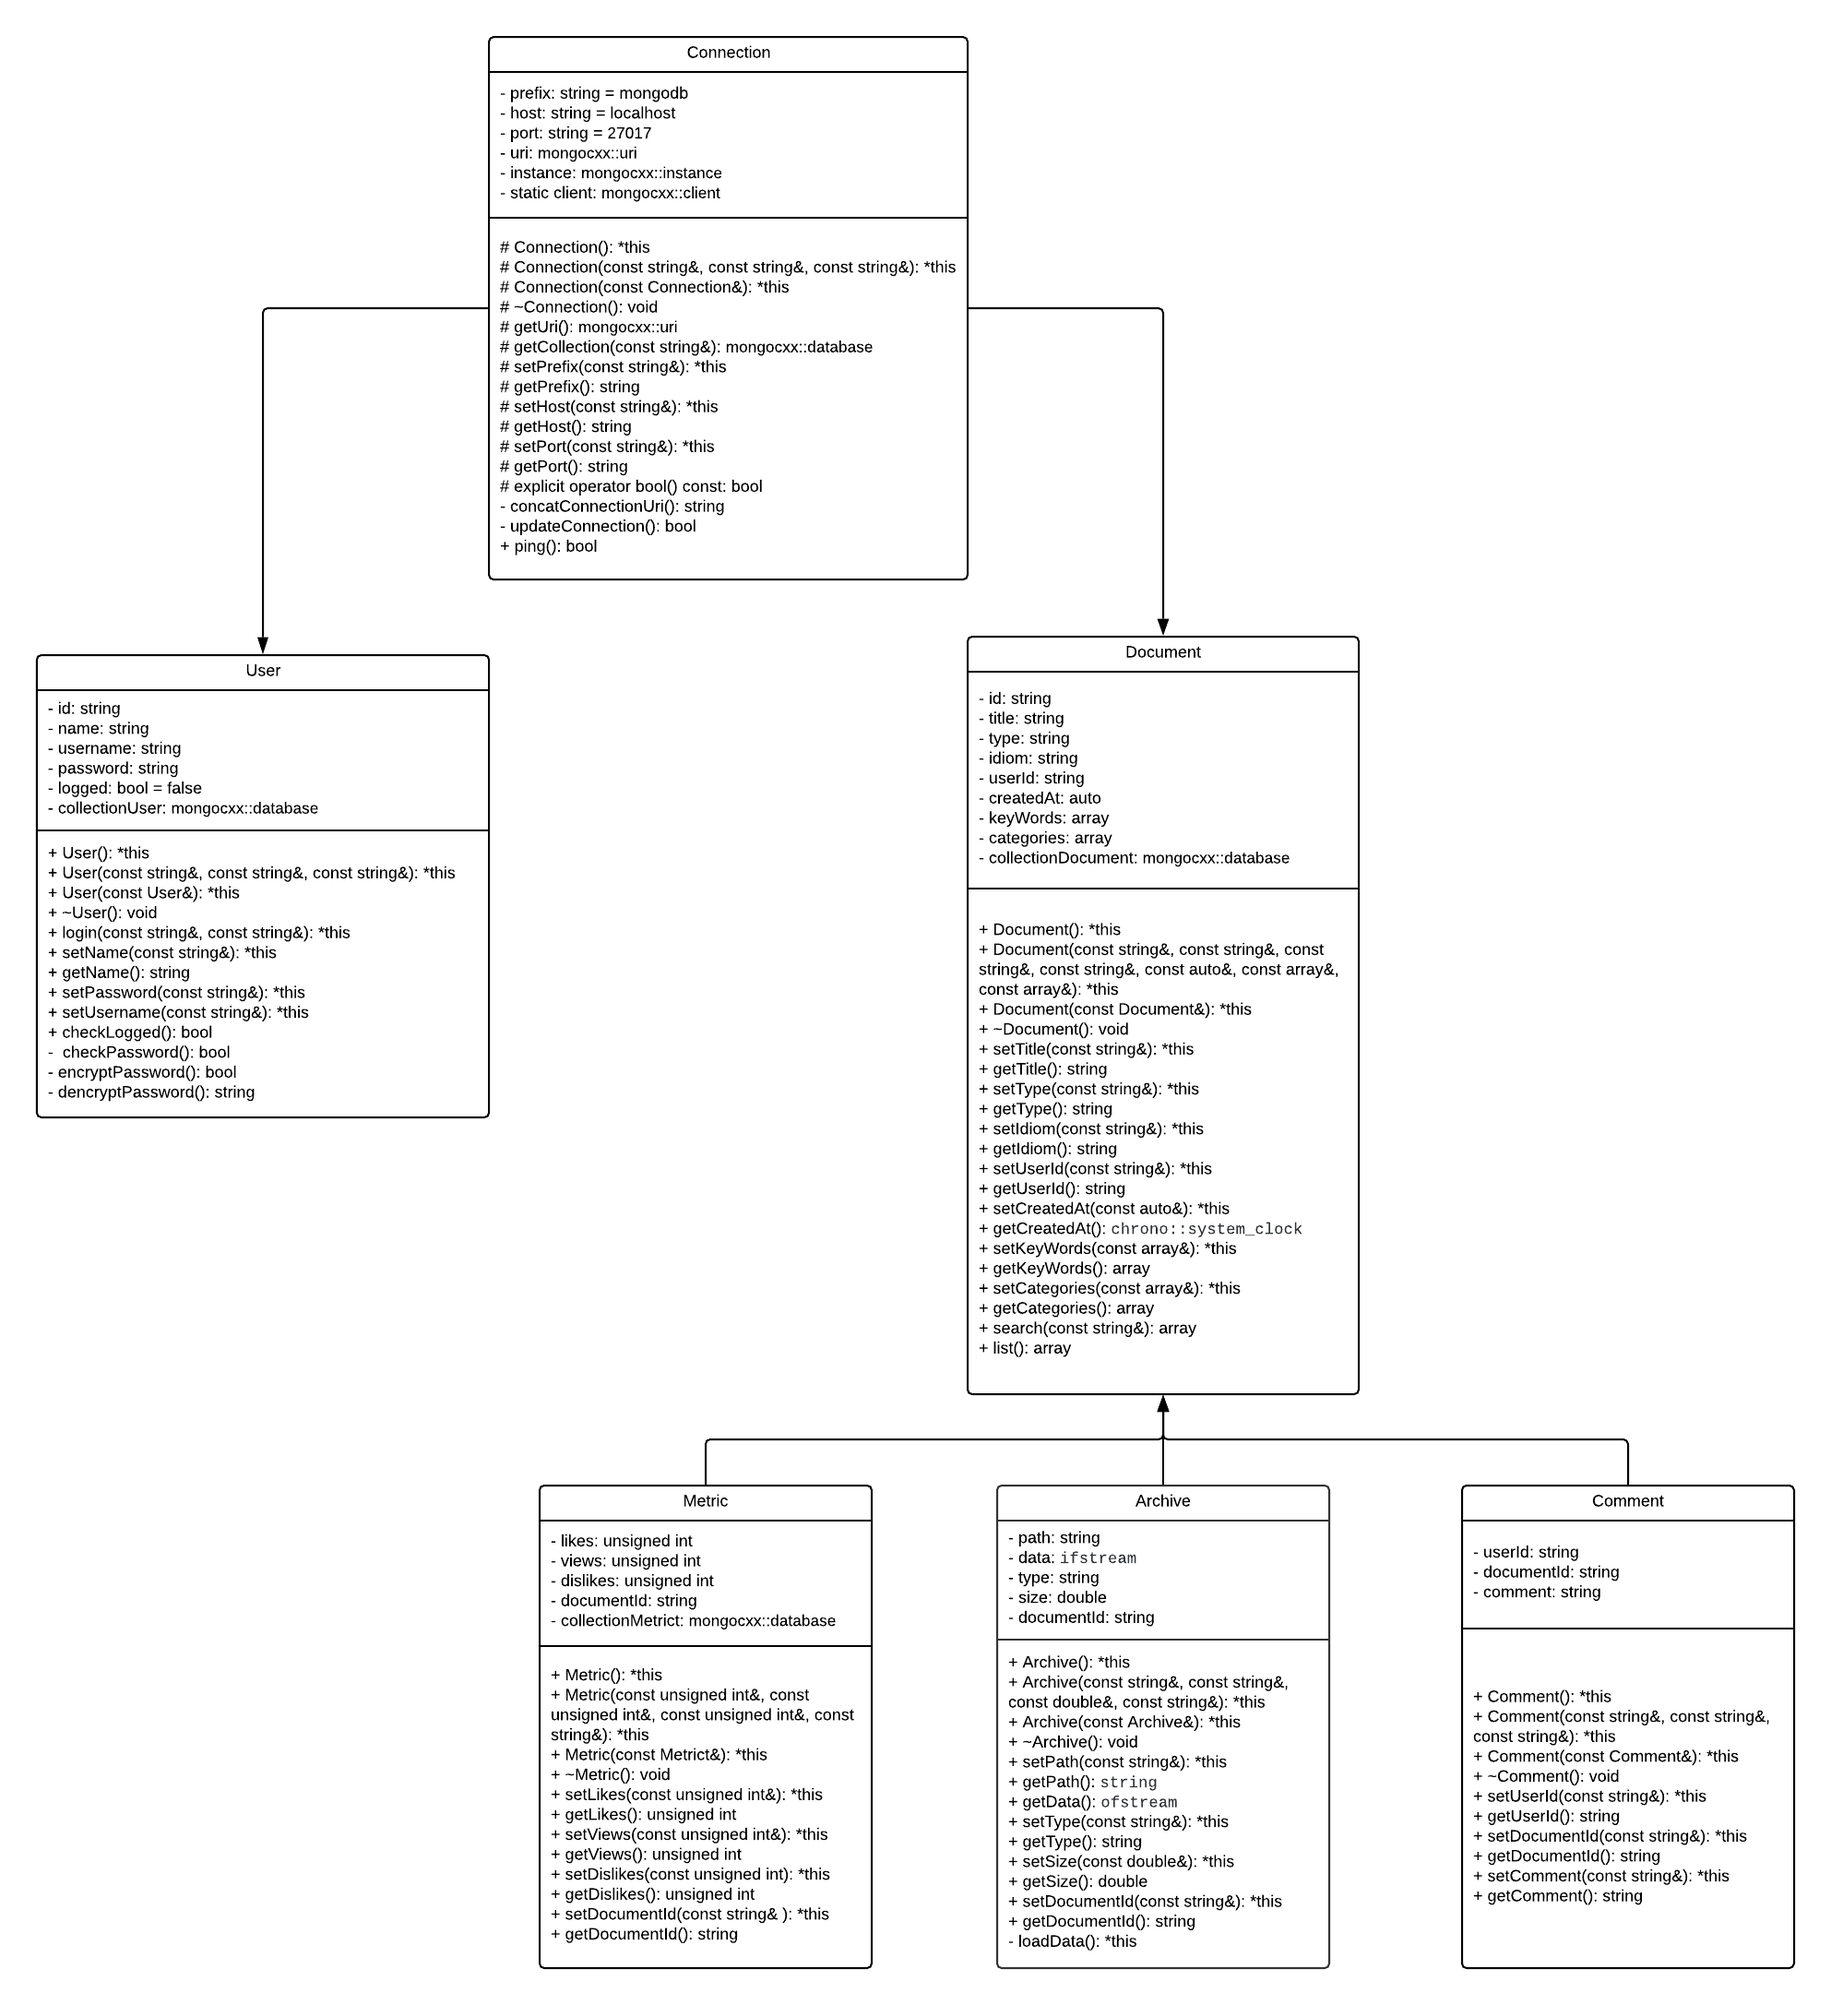
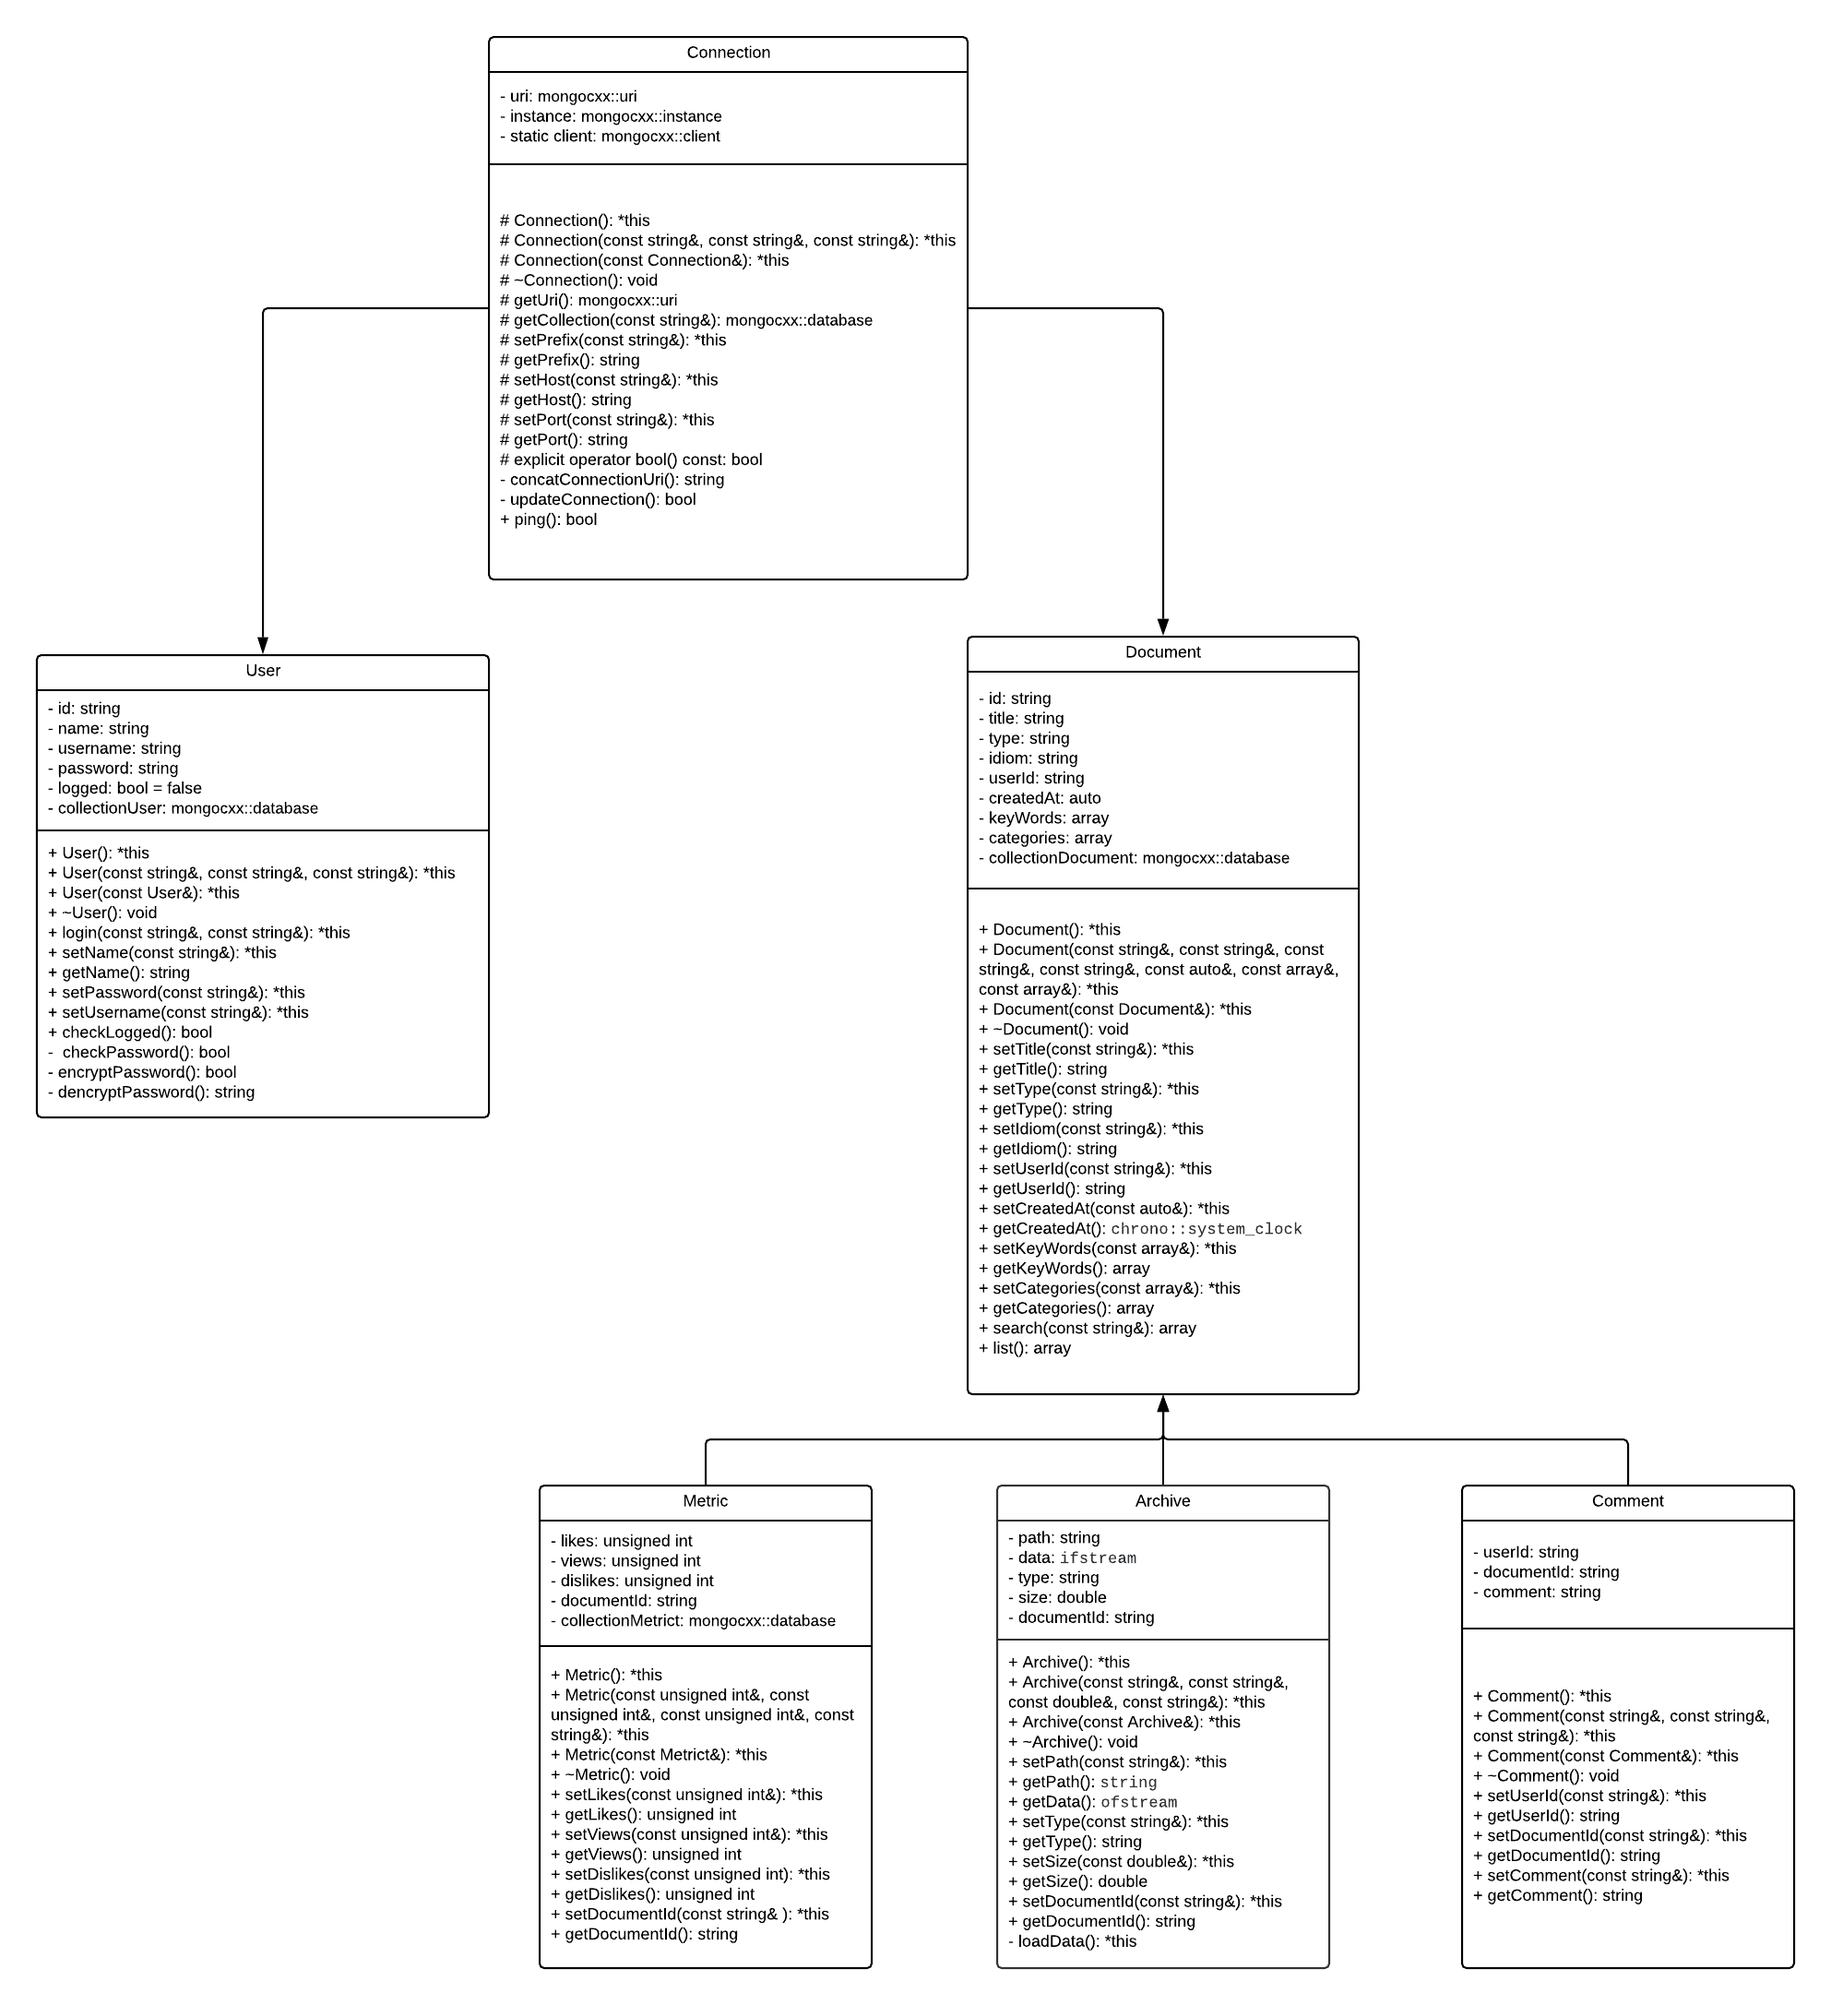
Connection to Mongo created

Changed region(s): [[0.2811, 0.0308, 0.4685, 0.2775], [0.8121, 0.8325, 0.9058, 0.9558], [0.4685, 0.0925, 0.4997, 0.1542]]

diff --git a/source/classes/connection/connection.cpp b/source/classes/connection/connection.cpp
@@ -1,30 +1,116 @@
-#include <cstdint>
-
 #include <iostream>
-
-#include <vector>
 
 #include <bsoncxx/json.hpp>
 
-#include <mongocxx/client.hpp>
-
 #include <mongocxx/stdx.hpp>
+
+#include <mongocxx/client.hpp>
 
 #include <mongocxx/uri.hpp>
 
 #include <mongocxx/instance.hpp>
 
+///
+/// Only one instance must exist for the entirety of the program.
+///
+/// Don't use static or nest the instance, because it can cause
+/// segmentation fault
+///
+mongocxx::instance instance;
+
 class Connection
 {
-    private: 
-        static mongocxx::instance instance{};
+private:
+	std::string mongo_uri{"mongodb://127.0.0.1:27017"};
 
-        mongocxx::client client{mongocxx::uri("mongodb://0.0.0.0:27017")};
+	mongocxx::client client{mongocxx::uri{this->mongo_uri}};
+
+public:
+	///
+	/// Constructs a default connection to Mongo
+	///
+	/// http://mongocxx.org/api/mongocxx-3.3.0/classmongocxx_1_1client.html
+	///
+	Connection()
+	{
+	}
+
+	///
+	/// Constructs a personalized connection to Mongo
+	///
+	/// @param mongodb_uri
+	///   A Mongo URI representing the connection parameters
+	///
+	/// Additional options can be specified via options parameter
+	///
+	/// http://mongocxx.org/api/mongocxx-3.3.0/classmongocxx_1_1client.html
+	///
+	Connection(const std::string &mongodb_uri)
+	{
+		this->mongo_uri = mongo_uri;
+
+		this->client = mongocxx::client{mongocxx::uri{mongodb_uri}};
+	}
+
+	///
+	/// Destroys a connection
+	///
+	~Connection()
+	{
+	}
+
+	///
+	/// Get a database
+	///
+	/// @param database_name
+	///   A database name representing a valid Mongo database
+	///
+	/// A database cannot be obtained from a temporary client object
+	///
+	/// http://mongocxx.org/api/mongocxx-v3/classmongocxx_1_1database.html
+	///
+	/// https://stackoverflow.com/questions/10897799/temporary-objects-when-are-they-created-how-do-you-recognise-them-in-code
+	///
+	const mongocxx::database get_database(const std::string &database_name) const
+	{
+		return this->client[database_name];
+	}
+
+	///
+	/// Get a collection
+	///
+	/// @param database_name
+	///   A database name representing a valid Mongo database
+	///
+	/// @param collection_name
+	///   A collection name representing a valid Mongo collection
+	///
+	/// http://mongocxx.org/api/mongocxx-v3/classmongocxx_1_1collection.html
+	///
+	const mongocxx::collection get_collection(const std::string &database_name, const std::string &collection_name) const
+	{
+		return this->get_database(database_name)[collection_name];
+	}
 };
 
 int main(const int argc, const char *argv[])
 {
-    Connection connection;
+	// Create a connection
+	Connection connection;
 
-    return 0;
+	// Get a database
+	connection.get_database("proto-buffer");
+
+	// Get a collection from database
+	mongocxx::collection collection = connection.get_collection("proto-buffer", "users");
+
+	// Get documents from collection
+	mongocxx::cursor cursor = collection.find({});
+
+	for (auto document : cursor)
+	{
+		std::cout << bsoncxx::to_json(document) << "\n";
+	}
+
+	return 0;
 }
